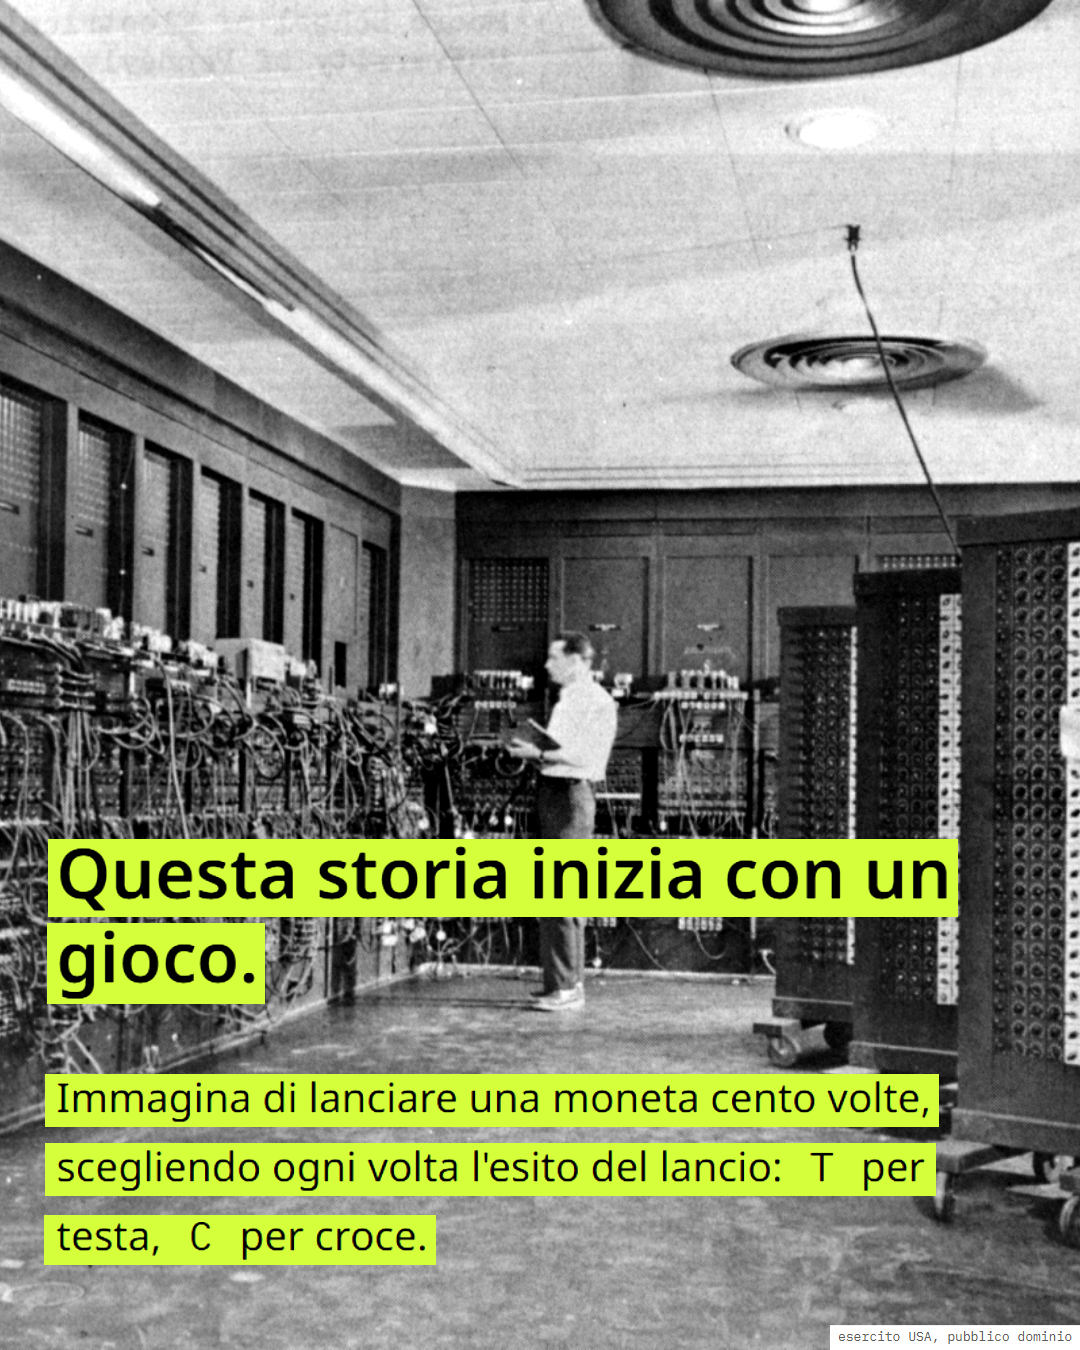
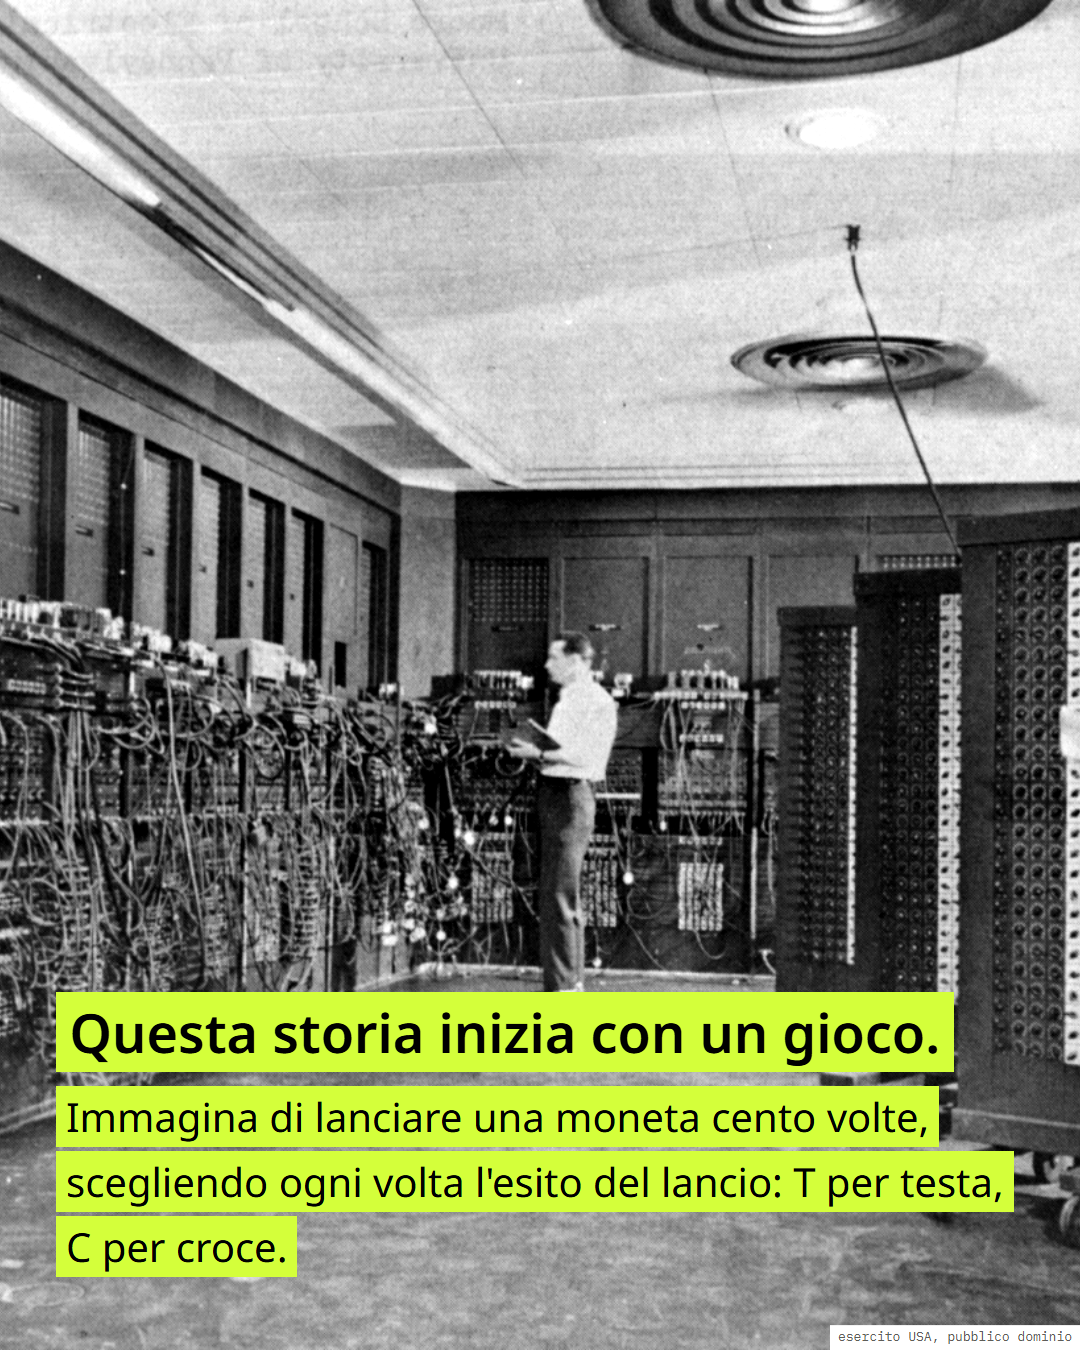
carosello della moneta: testi scritti a mano nelle slide 2-6 (campi titolo e testo)

Changed region(s): [[0.0306, 0.6222, 0.9472, 0.9644]]

diff --git a/strumenti/instagram/caroselli/carosello.html b/strumenti/instagram/caroselli/carosello.html
@@ -13,7 +13,7 @@
 <meta charset="utf-8">
 <title>àlea · caroselli v4</title>
 <link href="https://api.fontshare.com/v2/css?f[]=general-sans@600&display=block" rel="stylesheet">
-<link href="https://fonts.googleapis.com/css2?family=IBM+Plex+Mono:wght@400;500&display=block" rel="stylesheet">
+<link href="https://fonts.googleapis.com/css2?family=IBM+Plex+Mono:wght@400;500&family=Noto+Sans:ital,wght@0,400;0,600;1,400&display=block" rel="stylesheet">
 <script src="temi.js"></script>
 <script src="ritagli/elenco.js"></script>
 <style>
@@ -36,6 +36,10 @@
   .riga .copia.chiaro { mix-blend-mode: screen; filter: contrast(1.3); }
   .riga .copia.chiaro.inv { filter: invert(1) hue-rotate(180deg) contrast(1.3); }
   .gancio { position: absolute; left: 56px; right: 56px; font-weight: 600; font-size: 108px; line-height: 1.1; letter-spacing: -.045em; }
+  /* testo scritto a mano (campo testo delle slide): come le righe dei ritagli, Noto Sans su bande dell'evidenziatore */
+  .scritto { position: absolute; left: 56px; width: 968px; font: 40px/1.62 "Noto Sans", sans-serif; }
+  .scritto .titolo { font-weight: 600; font-size: 54px; line-height: 1.45; margin-bottom: 14px; }
+  .scritto span { background: var(--ev); color: var(--su); padding: 3px .25em; box-decoration-break: clone; -webkit-box-decoration-break: clone; }
   .gancio span { background: var(--ev); color: var(--su); padding: 0 .12em; box-decoration-break: clone; -webkit-box-decoration-break: clone; }
   /* credito di ogni foto, nell'angolo in basso a destra della foto stessa */
   .credito { position: absolute; right: 0; bottom: 0; font: 13px/1.3 "IBM Plex Mono", monospace; background: var(--fondo); color: var(--testo2); padding: 4px 8px; }
@@ -53,7 +57,8 @@ const R = {};
 for (const [nome, e] of Object.entries(ELENCO)) R[nome] = { src: nome + ".png", larg: 500, x: 0, w: 390, y: 0, h: 1000, righe: e.righe || [0, 999], blocco: e.blocco };
 
 // ---------------------------------------------------------------------------------------------
-// CONTENUTI: foto (una = a tutta pagina, più = griglia di `col` colonne), ritagli, gancio (solo copertina).
+// CONTENUTI: foto (una = a tutta pagina, più = griglia di `col` colonne), ritagli, gancio (solo copertina),
+// titolo e testo scritti a mano (con lo stesso aspetto delle righe dei ritagli; *corsivo*, **grassetto**).
 // ---------------------------------------------------------------------------------------------
 // crediti delle foto (da discorsi_camera/applausi/tabelle/foto.csv e Wikimedia Commons), scritti su ogni foto
 const CREDITI = {
@@ -86,11 +91,12 @@ const ARTICOLI = {
   ] },
   moneta: { slide: [
     { gancio: "Non siamo bravi a simulare il caso", foto: ["eniac-operatrici.jpg"] },
-    { foto: ["eniac-beck-snyder.jpg"], rit: ["m_gioco"] },
-    { foto: ["ibm-nasa.jpg"], rit: ["m_rand"] },
-    { rit: ["m_serie_t", "m_serie_g"] },
-    { rit: ["m_cambi_t", "m_cambi_g"] },
-    { rit: ["m_oracolo_t", "m_oracolo_g"] },
+    { foto: ["eniac-beck-snyder.jpg"], titolo: "Questa storia inizia con un gioco.",
+      testo: "Immagina di lanciare una moneta cento volte, scegliendo ogni volta l'esito del lancio: T per testa, C per croce." },
+    { foto: ["ibm-nasa.jpg"], testo: "Gli esseri umani non se la cavano troppo bene a simulare la casualità. Per questo motivo, nel 1955 la RAND Corporation pubblicò il libro *A Million Random Digits with 100,000 Normal Deviates*, un milione di cifre casuali diventato il riferimento per le simulazioni Monte Carlo, che richiedono campioni casuali." },
+    { testo: "Probabilmente, quando hai immaginato di lanciare una moneta, non hai inserito sequenze di esiti uguali per troppi lanci. In realtà, su cento lanci veri, la serie più lunga è quasi sempre di 5 lanci o più.", rit: ["m_serie_g"] },
+    { testo: "Allo stesso modo, in cento lanci veri ci si aspettano circa 50 cambi tra testa e croce, ma chi inventa tende ad alternare di più.", rit: ["m_cambi_g"] },
+    { testo: "Un «oracolo» progettato da Scott Aaronson ha il compito di prevedere il prossimo esito che una persona inventerà: all'inizio dell'articolo prova a prevedere le tue mosse.", rit: ["m_oracolo_g"] },
     { chiusura: "Inventa cento lanci di moneta e scopri se un programma riesce a prevederli." },
   ] },
 };
@@ -124,17 +130,25 @@ function rit(nome, k, y, x = 56) {
     width:${r.w * k}px;height:${h}px;background-image:url(${cartella}${r.src});background-size:${r.larg * k}px auto;
     background-position:${-r.x * k}px ${-r.y * k}px"></div>`, h };
 }
+// *corsivo* e **grassetto** nei testi scritti a mano
+const md = (t) => String(t).replace(/\*\*(.+?)\*\*/g, "<b>$1</b>").replace(/\*(.+?)\*/g, "<i>$1</i>");
 function slide(d) {
   if (d.chiusura) return `<div class="chiusura"><p>${d.chiusura}</p><span class="invito">Leggi tutto su alea.news</span></div>`;
   let h = d.foto ? fotoPagina(d) : "";
   if (d.gancio) return h + `<div class="gancio" style="top:64px"><span>${d.gancio}</span></div>`;
-  // ritagli impilati: con la foto stanno nella parte bassa (al massimo circa il 60% della pagina), senza foto al centro
-  const gap = 34, maxH = d.foto ? 780 : 1170;
-  const somma = d.rit.reduce((t, n) => t + R[n].h, 0);
-  const k = Math.min(968 / (390 - 32), (maxH - gap * (d.rit.length - 1)) / somma);
-  const tot = somma * k + gap * (d.rit.length - 1);
+  // testo scritto (facoltativo) e ritagli impilati: con la foto stanno nella parte bassa (al massimo circa il 60%
+  // della pagina), senza foto al centro. Il testo si misura prima, per sapere quanto spazio resta ai ritagli
+  const gap = 34, maxH = d.foto ? 780 : 1170, rr = d.rit || [];
+  const scritto = d.testo ? `<div class="scritto">${d.titolo ? `<div class="titolo"><span>${md(d.titolo)}</span></div>` : ""}<span>${md(d.testo)}</span></div>` : "";
+  let hs = 0;
+  if (scritto) { const p = document.createElement("div"); p.innerHTML = scritto; document.body.append(p); hs = p.firstChild.offsetHeight; p.remove(); }
+  const somma = rr.reduce((t, n) => t + R[n].h, 0);
+  const posto = maxH - hs - gap * (rr.length - (scritto ? 0 : 1));
+  const k = somma ? Math.min(968 / (390 - 32), posto / somma) : 0;
+  const tot = hs + somma * k + gap * (rr.length - (scritto ? 0 : 1));
   let y = d.foto ? 1350 - 70 - tot : (1350 - tot) / 2;
-  d.rit.forEach((n) => { const r = rit(n, k, y); h += r.html; y += r.h + gap; });
+  if (scritto) { h += scritto.replace('class="scritto"', `class="scritto" style="top:${y}px"`); y += hs + gap; }
+  rr.forEach((n) => { const r = rit(n, k, y); h += r.html; y += r.h + gap; });
   return h;
 }
 
@@ -198,7 +212,7 @@ async function pezzi() {
 }
 
 const A = ARTICOLI[q.get("a") || "litigi"], i = (+q.get("s") || 1) - 1, d = A.slide[i];
-Promise.all(['600 100px "General Sans"', '14px "IBM Plex Mono"'].map((f) => document.fonts.load(f)))
+Promise.all(['600 100px "General Sans"', '14px "IBM Plex Mono"', '40px "Noto Sans"', '600 40px "Noto Sans"', 'italic 40px "Noto Sans"'].map((f) => document.fonts.load(f)))
   .then(() => aggiustaRitagli(d.rit || []))
   .then(() => {
     document.getElementById("s").innerHTML = slide(d);

diff --git a/strumenti/instagram/COME-SI-FA.md b/strumenti/instagram/COME-SI-FA.md
@@ -26,6 +26,7 @@ Esempio di slide in `ARTICOLI`:
 { foto: ["mario_draghi.jpg", "matteo_salvini.jpg"], col: 2, rit: ["l_draghi_testo"] },   // 2 foto affiancate + un ritaglio
 { gancio: "Testo della copertina", foto: [...], col: 3 },                                  // copertina
 { chiusura: "Frase finale." },                                                              // ultima slide: frase + «Leggi tutto su alea.news»
+{ foto: ["ibm-nasa.jpg"], titolo: "Un titolo", testo: "Testo scritto a mano, *corsivo*.", rit: ["m_serie_g"] },  // testo scritto (con le righe evidenziate come i ritagli) + ritaglio
 ```
 
 Le foto stanno in `foto/`. Una foto nuova va aggiunta anche in `CREDITI`.
